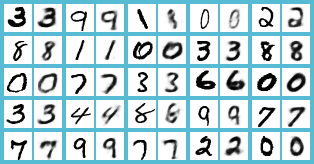
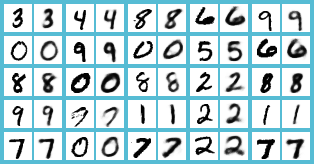
works well with 30 features

diff --git a/demo/mnist/main.go b/demo/mnist/main.go
@@ -18,7 +18,12 @@ func main() {
 	net := neuralnet.Network{
 		&neuralnet.DenseLayer{
 			InputCount:  28 * 28,
-			OutputCount: 50,
+			OutputCount: 200,
+		},
+		&neuralnet.HyperbolicTangent{},
+		&neuralnet.DenseLayer{
+			InputCount:  200,
+			OutputCount: 30,
 		},
 		&neuralnet.HyperbolicTangent{},
 		&skewcoder.Reconstructor{
